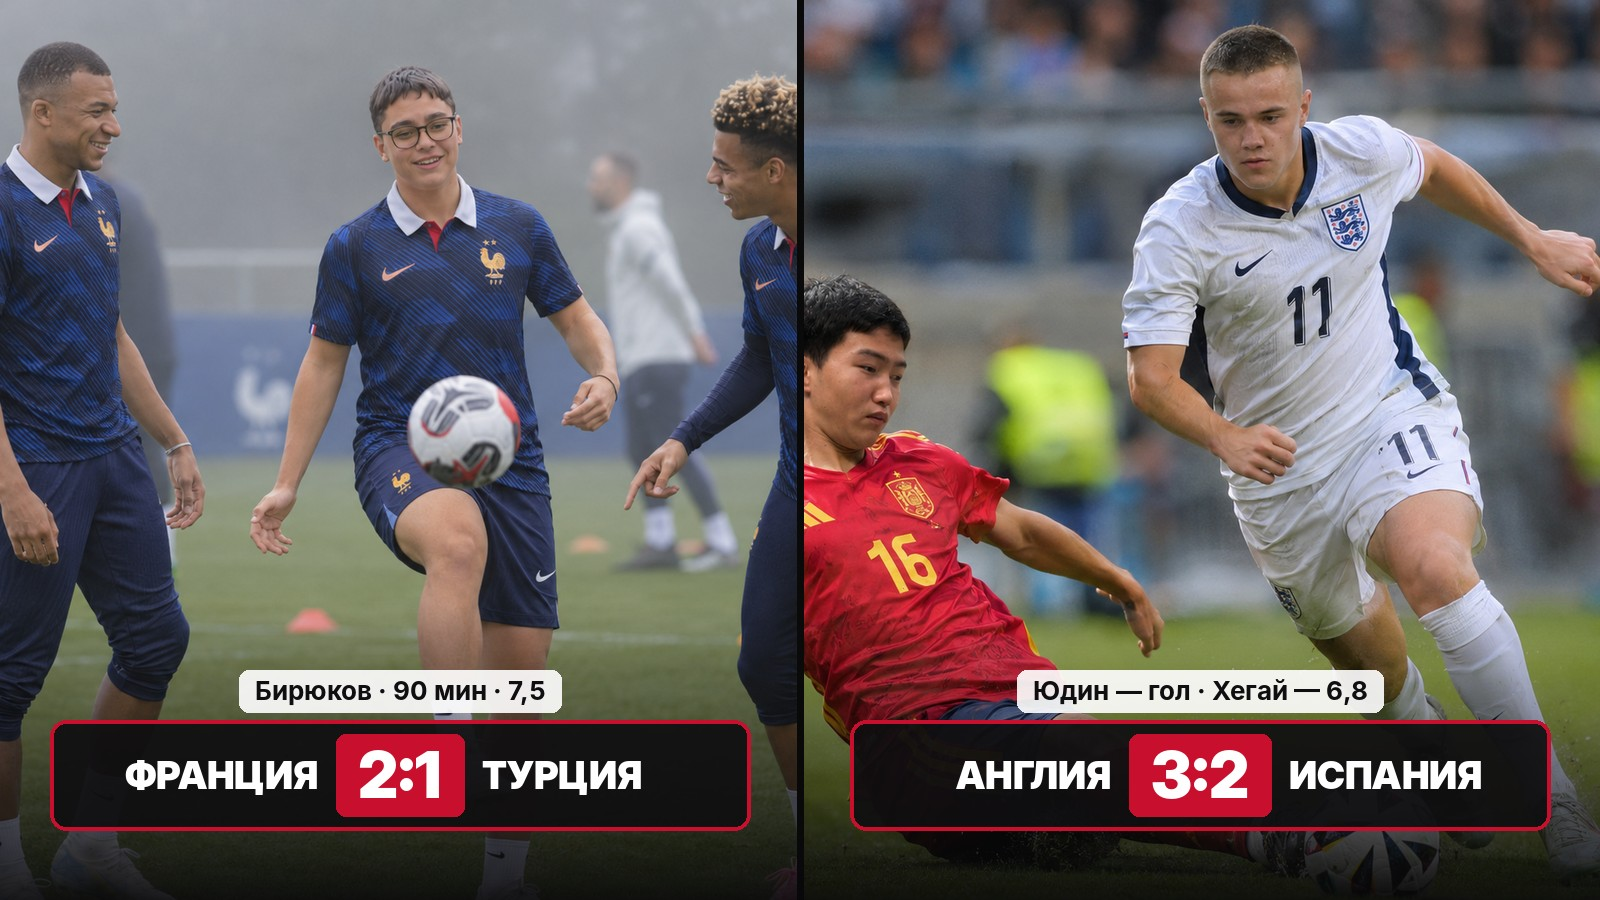
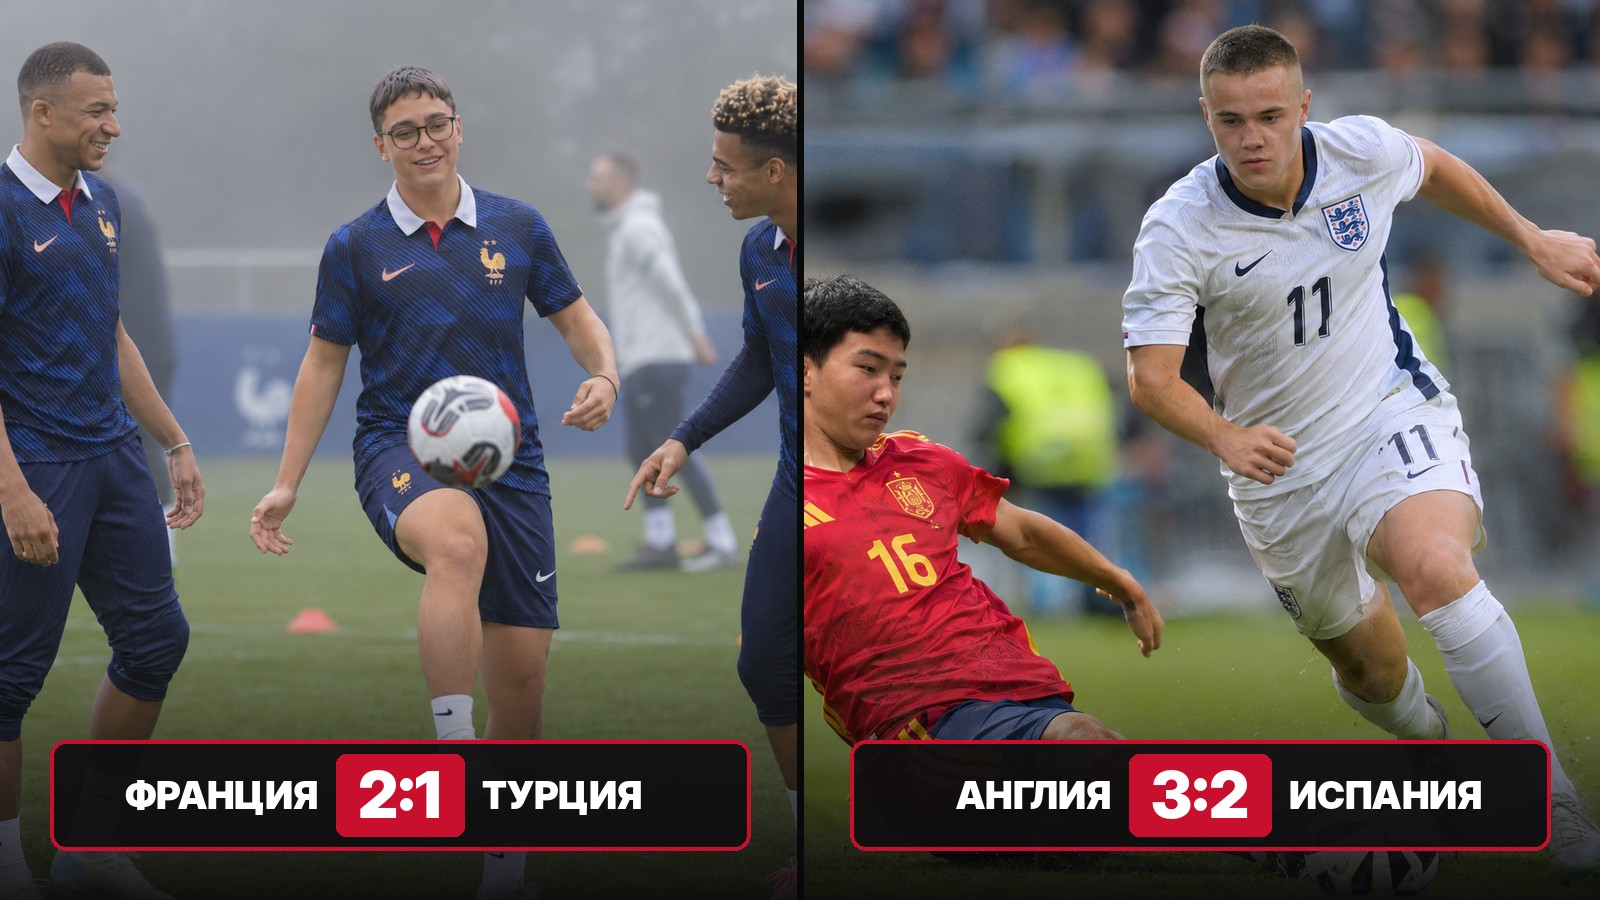
News 22: обложка — только счёт матчей
Claude-Session: https://claude.ai/code/session_01K5QUXj8aqaDtBSdZ1D9aa3

Changed region(s): [[0.5312, 0.7467, 0.9688, 0.9644], [0.0312, 0.7467, 0.4688, 0.9644]]

diff --git a/index.html b/index.html
@@ -13,7 +13,7 @@
   <link rel="preconnect" href="https://fonts.googleapis.com">
   <link rel="preconnect" href="https://fonts.gstatic.com" crossorigin>
   <link rel="stylesheet" href="https://fonts.googleapis.com/css2?family=Manrope:wght@400;600;700;800&family=Unbounded:wght@600;800&display=swap">
-  <link rel="stylesheet" href="css/style.css?v=202611160750">
+  <link rel="stylesheet" href="css/style.css?v=202611160756">
 </head>
 <body>
   <header class="header">
@@ -38,12 +38,12 @@
     </div>
   </footer>
 
-  <script src="js/data.js?v=202611160750"></script>
-  <script src="js/comments.js?v=202611160750"></script>
-  <script src="js/posts.js?v=202611160750"></script>
-  <script src="js/firebase-config.js?v=202611160750"></script>
-  <script src="js/live-comments.js?v=202611160750"></script>
-  <script src="js/main.js?v=202611160750"></script>
-  <script src="js/push.js?v=202611160750"></script>
+  <script src="js/data.js?v=202611160756"></script>
+  <script src="js/comments.js?v=202611160756"></script>
+  <script src="js/posts.js?v=202611160756"></script>
+  <script src="js/firebase-config.js?v=202611160756"></script>
+  <script src="js/live-comments.js?v=202611160756"></script>
+  <script src="js/main.js?v=202611160756"></script>
+  <script src="js/push.js?v=202611160756"></script>
 </body>
 </html>
